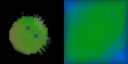
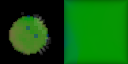
Add files via upload

diff --git a/main.py b/main.py
@@ -1,25 +1,183 @@
-import torch
+import sys
 import os
-from train import train_model
-from renderer import raycast_render, save_image
+import pygame
+import numpy as np
+import torch
+import time
+
+# Add parent directory to path
+sys.path.append(os.path.dirname(os.path.dirname(os.path.abspath(__file__))))
+
+from world_gen import generate_planet_volume
+from volume_data import VolumeDataset
+from traditional_renderer import render_volume_direct
+from renderer import raycast_render
 from model import VolumeNet
 
-def main():
-    # 1. Train the model (or load if exists, but for this demo we train fresh)
-    print("Step 1: Training Neural Network on Volume Data")
-    # Train for a few epochs to get a result quickly
-    model = train_model(epochs=20, batch_size=4096)
-    
-    # 2. Render the volume
-    print("\nStep 2: Rendering Volume with Neural Network and VTK Transfer Functions")
-    device = torch.device("cuda" if torch.cuda.is_available() else "cpu")
-    
-    # Render
-    image = raycast_render(model, width=256, height=256, device=device)
-    
-    # 3. Save the result
-    save_image(image, 'neural_volume_render.png')
-    print("\nPipeline Complete!")
+class FPPGame:
+    def __init__(self):
+        pygame.init()
+        self.width = 1024 # Wider for side-by-side
+        self.height = 512
+        self.render_width = 256
+        self.render_height = 256
+        
+        self.screen = pygame.display.set_mode((self.width, self.height))
+        pygame.display.set_caption("Neural Volume Rendering - FPP Game")
+        self.clock = pygame.time.Clock()
+        self.font = pygame.font.SysFont("Arial", 18)
+        
+        # Game State
+        self.running = True
+        self.camera_pos = np.array([0.0, 0.0, -2.5])
+        self.camera_yaw = 0.0
+        self.camera_pitch = 0.0
+        
+        # Mouse State
+        self.mouse_locked = False
+        self.mouse_sensitivity = 0.2
+        self.move_speed = 0.1
+        
+        # Initialize Data & Model
+        self.init_volume()
+        
+    def init_volume(self):
+        print("Generating World...")
+        self.volume_data = generate_planet_volume(size=32)
+        
+        print("Training Neural Network...")
+        self.device = torch.device("cuda" if torch.cuda.is_available() else "cpu")
+        self.model = VolumeNet().to(self.device)
+        
+        dataset = VolumeDataset(self.volume_data)
+        coords = torch.from_numpy(dataset.coords).to(self.device)
+        values = torch.from_numpy(dataset.values).to(self.device).unsqueeze(1)
+        
+        optimizer = torch.optim.Adam(self.model.parameters(), lr=0.001)
+        criterion = torch.nn.MSELoss()
+        
+        # Quick training
+        epochs = 20
+        batch_size = 4096
+        num_samples = len(coords)
+        
+        for epoch in range(epochs):
+            perm = torch.randperm(num_samples)
+            for i in range(0, num_samples, batch_size):
+                idx = perm[i:i+batch_size]
+                optimizer.zero_grad()
+                outputs = self.model(coords[idx])
+                loss = criterion(outputs, values[idx])
+                loss.backward()
+                optimizer.step()
+        print("Ready!")
+
+    def handle_input(self):
+        for event in pygame.event.get():
+            if event.type == pygame.QUIT:
+                self.running = False
+            elif event.type == pygame.KEYDOWN:
+                if event.key == pygame.K_ESCAPE:
+                    self.running = False
+                elif event.key == pygame.K_TAB:
+                    self.mouse_locked = not self.mouse_locked
+                    pygame.mouse.set_visible(not self.mouse_locked)
+                    pygame.event.set_grab(self.mouse_locked)
+            elif event.type == pygame.MOUSEMOTION and self.mouse_locked:
+                dx, dy = event.rel
+                self.camera_yaw += dx * self.mouse_sensitivity
+                self.camera_pitch -= dy * self.mouse_sensitivity
+                self.camera_pitch = np.clip(self.camera_pitch, -89, 89)
+
+        # Keyboard Movement
+        keys = pygame.key.get_pressed()
+        
+        # Calculate Vectors
+        yaw_rad = np.radians(self.camera_yaw)
+        pitch_rad = np.radians(self.camera_pitch)
+        
+        dx = np.sin(yaw_rad) * np.cos(pitch_rad)
+        dy = np.sin(pitch_rad)
+        dz = np.cos(yaw_rad) * np.cos(pitch_rad)
+        
+        fwd = np.array([dx, dy, dz])
+        fwd = fwd / np.linalg.norm(fwd)
+        
+        up = np.array([0, 1, 0])
+        right = np.cross(fwd, up)
+        right = right / np.linalg.norm(right)
+        
+        # Re-orthogonalize up
+        self.camera_up = np.cross(right, fwd)
+        self.camera_dir = fwd
+        
+        if keys[pygame.K_w]: self.camera_pos += fwd * self.move_speed
+        if keys[pygame.K_s]: self.camera_pos -= fwd * self.move_speed
+        if keys[pygame.K_a]: self.camera_pos -= right * self.move_speed
+        if keys[pygame.K_d]: self.camera_pos += right * self.move_speed
+        if keys[pygame.K_q]: self.camera_pos += self.camera_up * self.move_speed
+        if keys[pygame.K_e]: self.camera_pos -= self.camera_up * self.move_speed
+
+    def render(self):
+        self.screen.fill((30, 30, 30))
+        
+        # Render Traditional
+        trad_img = render_volume_direct(self.volume_data, width=self.render_width, height=self.render_height,
+                                      camera_pos=self.camera_pos, camera_dir=self.camera_dir, camera_up=self.camera_up)
+        
+        # Render Neural
+        neur_img = raycast_render(self.model, width=self.render_width, height=self.render_height, device=self.device,
+                                camera_pos=self.camera_pos, camera_dir=self.camera_dir, camera_up=self.camera_up)
+        
+        # Convert to Pygame Surfaces
+        # Numpy is (H, W, 4) RGBA -> Pygame expects (W, H) or we can use make_surface with swapaxes
+        
+        # Traditional
+        trad_surf = pygame.image.frombuffer((trad_img * 255).astype(np.uint8).tobytes(), 
+                                          (self.render_width, self.render_height), "RGBA")
+        trad_surf = pygame.transform.scale(trad_surf, (self.width // 2, self.height))
+        
+        # Neural
+        neur_surf = pygame.image.frombuffer((neur_img * 255).astype(np.uint8).tobytes(), 
+                                          (self.render_width, self.render_height), "RGBA")
+        neur_surf = pygame.transform.scale(neur_surf, (self.width // 2, self.height))
+        
+        # Blit
+        self.screen.blit(trad_surf, (0, 0))
+        self.screen.blit(neur_surf, (self.width // 2, 0))
+        
+        # UI
+        fps = int(self.clock.get_fps())
+        fps_text = self.font.render(f"FPS: {fps}", True, (255, 255, 255))
+        self.screen.blit(fps_text, (10, 10))
+        
+        pos_text = self.font.render(f"Pos: {self.camera_pos}", True, (255, 255, 255))
+        self.screen.blit(pos_text, (10, 30))
+        
+        label_trad = self.font.render("Traditional (Raycast)", True, (255, 255, 255))
+        self.screen.blit(label_trad, (self.width // 4 - label_trad.get_width() // 2, self.height - 30))
+        
+        label_neur = self.font.render("Neural (Implicit Rep)", True, (255, 255, 255))
+        self.screen.blit(label_neur, (3 * self.width // 4 - label_neur.get_width() // 2, self.height - 30))
+        
+        if not self.mouse_locked:
+            msg = self.font.render("Press TAB to Lock Mouse", True, (255, 255, 0))
+            self.screen.blit(msg, (self.width // 2 - msg.get_width() // 2, self.height // 2))
+            
+        # Crosshair
+        cx, cy = self.width // 2, self.height // 2
+        pygame.draw.line(self.screen, (255, 255, 255), (cx - 10, cy), (cx + 10, cy), 1)
+        pygame.draw.line(self.screen, (255, 255, 255), (cx, cy - 10), (cx, cy + 10), 1)
+        
+        pygame.display.flip()
+
+    def run(self):
+        while self.running:
+            self.handle_input()
+            self.render()
+            self.clock.tick(60)
+        pygame.quit()
 
 if __name__ == "__main__":
-    main()
+    game = FPPGame()
+    game.run()

diff --git a/test_fpp.py b/test_fpp.py
@@ -1,0 +1,49 @@
+import sys
+import os
+import cv2
+import numpy as np
+import torch
+
+# Add parent directory to path
+sys.path.append(os.path.dirname(os.path.dirname(os.path.abspath(__file__))))
+
+from world_gen import generate_planet_volume
+from volume_data import VolumeDataset
+from traditional_renderer import render_volume_direct
+from renderer import raycast_render
+from model import VolumeNet
+
+def test_fpp():
+    print("Testing FPP Game Pipeline...")
+    
+    # 1. Generate Data
+    volume_size = 16
+    volume_data = generate_planet_volume(size=volume_size)
+    
+    # 2. Setup Model
+    device = torch.device("cpu")
+    model = VolumeNet().to(device)
+    
+    # 3. Test Render with Camera
+    camera_pos = np.array([0.0, 0.0, -2.5])
+    camera_dir = np.array([0.0, 0.0, 1.0])
+    camera_up = np.array([0.0, 1.0, 0.0])
+    
+    print("Rendering FPP Frame (Traditional)...")
+    trad_img = render_volume_direct(volume_data, width=64, height=64,
+                                  camera_pos=camera_pos, camera_dir=camera_dir, camera_up=camera_up)
+    
+    print("Rendering FPP Frame (Neural)...")
+    neur_img = raycast_render(model, width=64, height=64, device=device,
+                            camera_pos=camera_pos, camera_dir=camera_dir, camera_up=camera_up)
+    
+    # Save output
+    trad_bgr = cv2.cvtColor((trad_img * 255).astype(np.uint8), cv2.COLOR_RGBA2BGR)
+    neur_bgr = cv2.cvtColor((neur_img * 255).astype(np.uint8), cv2.COLOR_RGBA2BGR)
+    combined = np.hstack([trad_bgr, neur_bgr])
+    
+    cv2.imwrite("test_fpp_output.png", combined)
+    print("Test Complete.")
+
+if __name__ == "__main__":
+    test_fpp()
